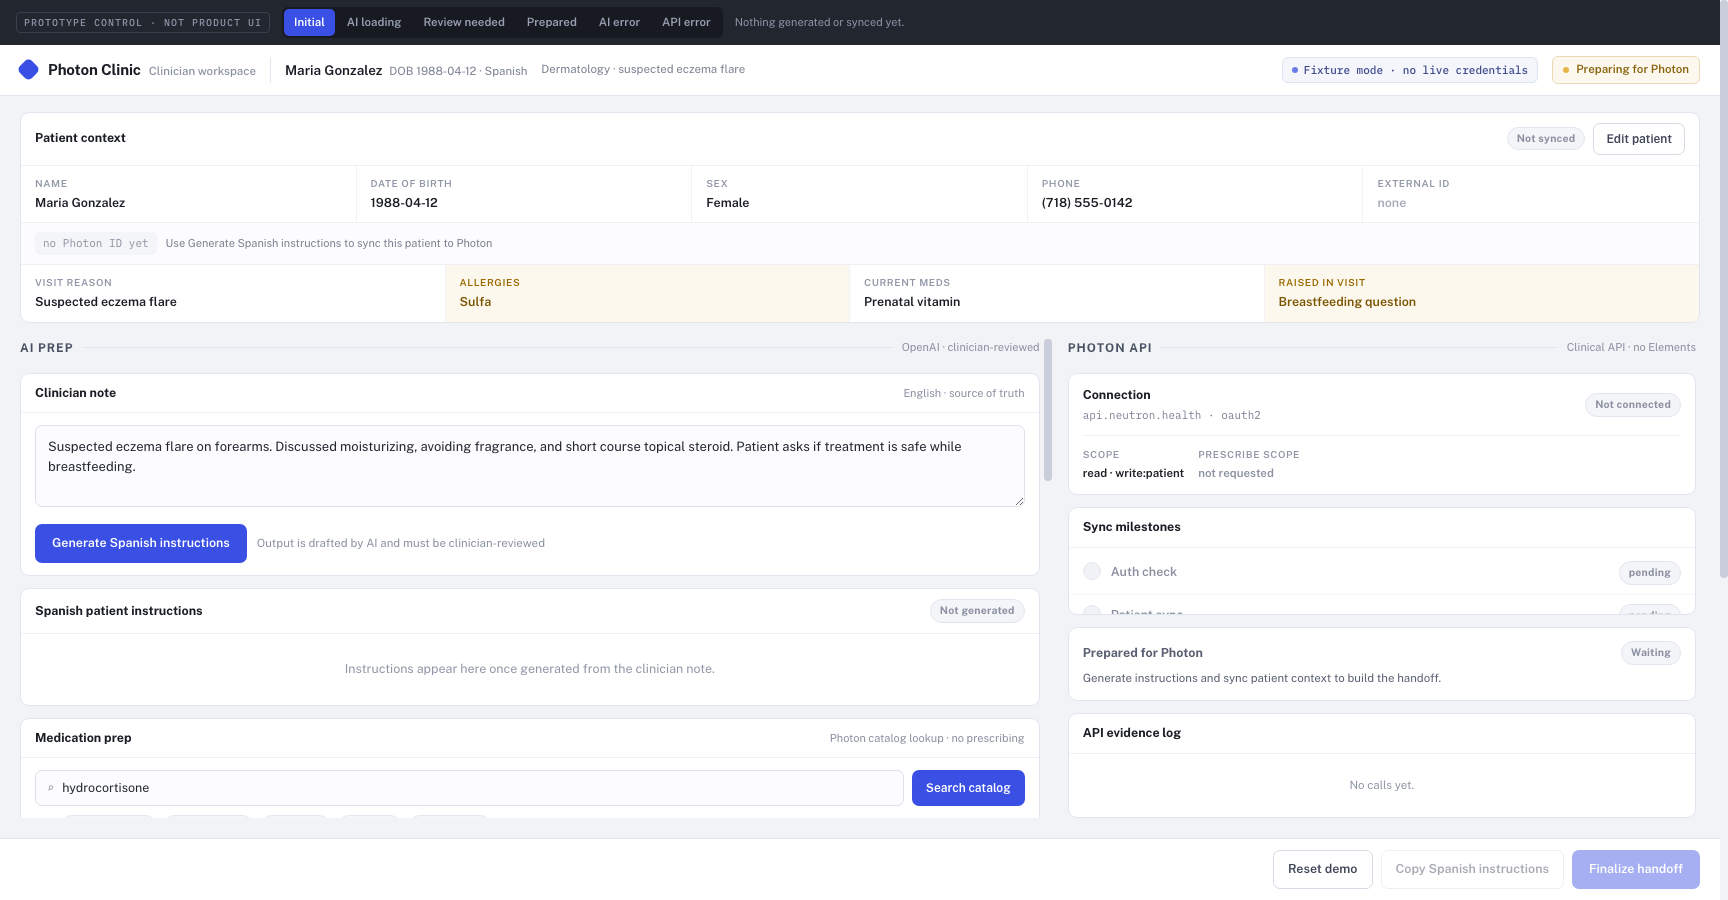
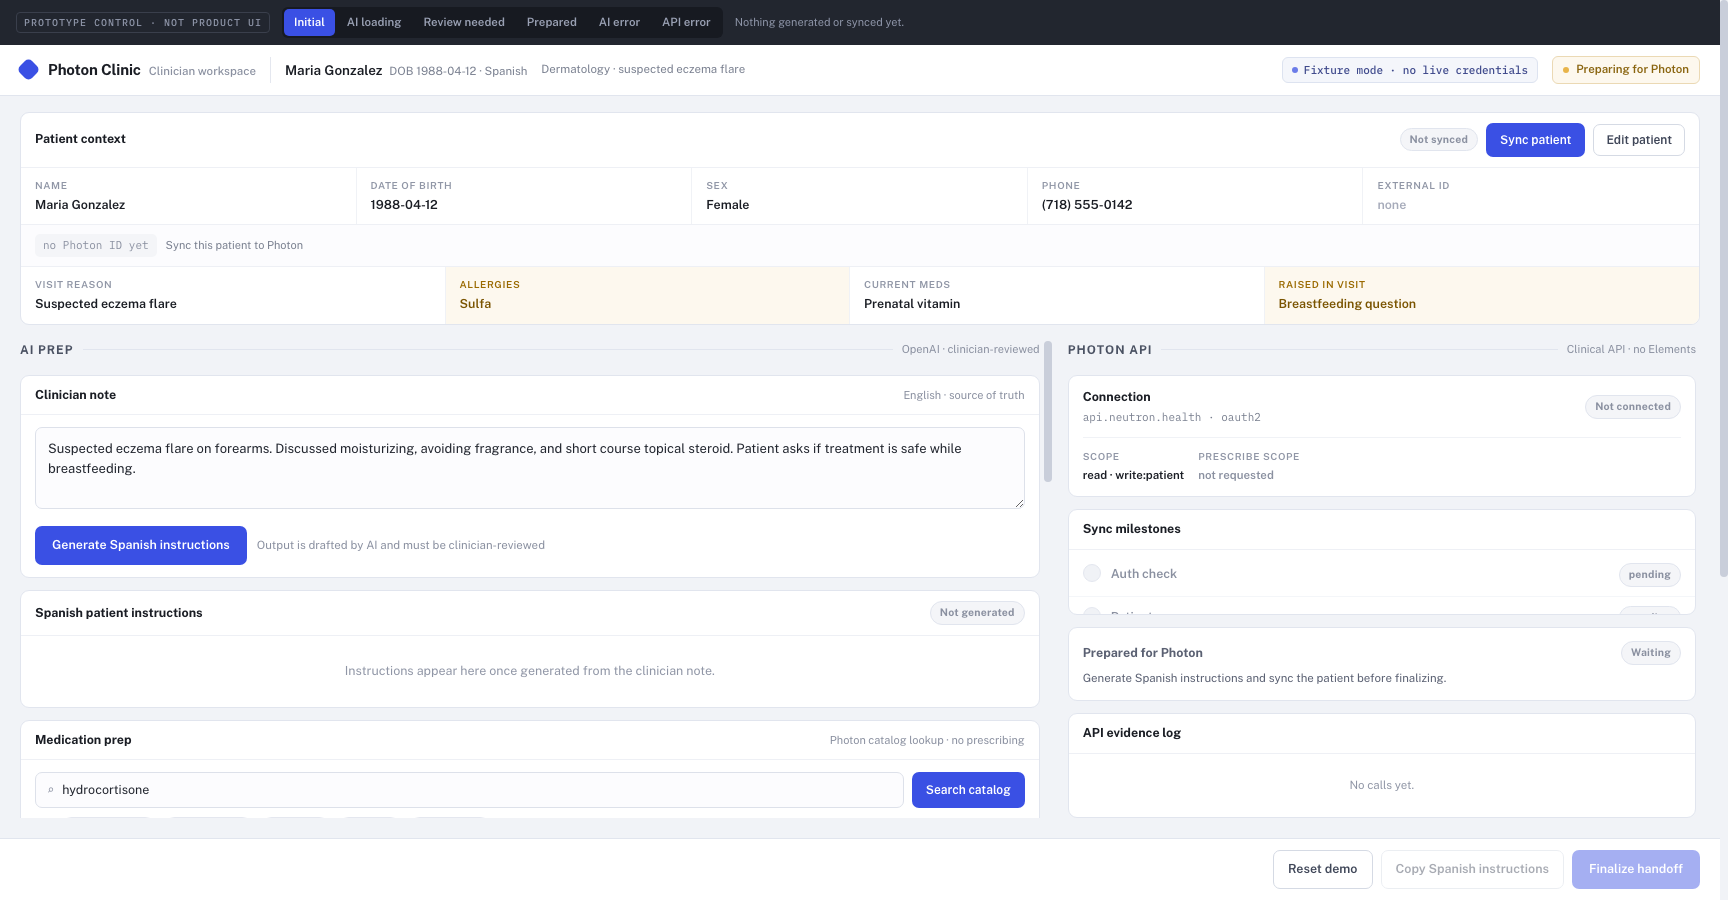
Split patient sync from instruction generation

diff --git a/app/visit/useVisitWorkflow.ts b/app/visit/useVisitWorkflow.ts
@@ -48,6 +48,7 @@ type VisitActions = {
   searchTreatmentTerm: (term: string) => void;
   selectTreatment: (id: string) => void;
   togglePatientEdit: () => void;
+  syncPatient: () => void;
   setDraftPatientField: (field: keyof VisitPatient, value: string) => void;
   savePatient: () => void;
   cancelPatientEdit: () => void;
@@ -193,13 +194,8 @@ async function getJson<TResponse>(url: string): Promise<TResponse> {
   return response.json() as Promise<TResponse>;
 }
 
-function combineMode(instructionsMode: InstructionsResponse["mode"], photonMode: PhotonSyncResponse["mode"]) {
-  return instructionsMode === "live" || photonMode === "live" ? "live" : "fixture";
-}
-
-function mergeLogEntries(instructions: InstructionsResponse, photon: PhotonSyncResponse) {
-  const [authLog, ...remainingPhotonLogs] = photon.logEntries;
-  return authLog ? [authLog, instructions.logEntry, ...remainingPhotonLogs] : [instructions.logEntry];
+function combineSingleMode(currentMode: InstructionsResponse["mode"], nextMode: InstructionsResponse["mode"]) {
+  return currentMode === "live" || nextMode === "live" ? "live" : "fixture";
 }
 
 async function requestTranslation(text: string, direction: TranslateDirection): Promise<TranslateResponse> {
@@ -254,96 +250,80 @@ export function useVisitWorkflow(): VisitWorkflow {
       phase: "loading",
       reviewed: false,
       finalized: false,
-      patientSyncStatus: "pending",
-      milestones: buildMilestones("loading"),
-      logEntries: buildLog("loading", false),
     }));
 
-    const [instructionsResult, photonResult] = await Promise.allSettled([
-      postJson<InstructionsResponse>("/api/instructions", {
+    try {
+      const instructions = await postJson<InstructionsResponse>("/api/instructions", {
         note: state.note,
         patient: toPhotonPatientInput(state.patient),
         treatment: state.selectedTreatment,
-      }),
-      postJson<PhotonSyncResponse>("/api/photon/sync", {
-        patient: toPhotonPatientInput(state.patient),
-        treatment: state.selectedTreatment,
-      }),
-    ]);
-
-    if (instructionsResult.status === "rejected") {
+      });
+      setState((current) => ({
+        ...current,
+        phase: "review",
+        reviewed: false,
+        finalized: false,
+        integrationMode: combineSingleMode(current.integrationMode, instructions.mode),
+        instructionsHeading: instructions.headingEs,
+        instructions: instructions.blocks,
+        instructionsPlainText: instructions.plainText,
+        logEntries: [...current.logEntries, instructions.logEntry],
+      }));
+    } catch {
       setState((current) => ({
         ...current,
         phase: "aiError",
         reviewed: false,
         finalized: false,
-        patientSyncStatus:
-          photonResult.status === "fulfilled" ? (current.patientDirty ? "updated" : "synced") : "none",
-        patientDirty: photonResult.status === "fulfilled" ? false : current.patientDirty,
-        patientId: photonResult.status === "fulfilled" ? photonResult.value.patientId : current.patientId,
-        patient:
-          photonResult.status === "fulfilled" && photonResult.value.patient
-            ? fromPhotonPatientInput(photonResult.value.patient)
-            : current.patient,
-        draftPatient:
-          photonResult.status === "fulfilled" && photonResult.value.patient
-            ? fromPhotonPatientInput(photonResult.value.patient)
-            : current.draftPatient,
-        milestones: photonResult.status === "fulfilled" ? photonResult.value.milestones : buildMilestones("aiError"),
-        logEntries:
-          photonResult.status === "fulfilled"
-            ? [
-                ...photonResult.value.logEntries,
-                {
-                  t: new Date().toTimeString().slice(0, 8),
-                  code: "502",
-                  msg: "openai · instructions.generate",
-                  isError: true,
-                },
-              ]
-            : buildLog("aiError", false),
+        logEntries: [
+          ...current.logEntries,
+          {
+            t: new Date().toTimeString().slice(0, 8),
+            code: "502",
+            msg: "openai · instructions.generate",
+            isError: true,
+          },
+        ],
       }));
-      return;
     }
+  };
 
-    if (photonResult.status === "rejected") {
-      const instructions = instructionsResult.value;
+  const syncPatient = async () => {
+    setState((current) => ({
+      ...current,
+      patientSyncStatus: "pending",
+      finalized: false,
+      milestones: buildMilestones("loading"),
+    }));
+
+    try {
+      const photon = await postJson<PhotonSyncResponse>("/api/photon/sync", {
+        patient: toPhotonPatientInput(state.patient),
+        treatment: state.selectedTreatment,
+      });
+      setState((current) => ({
+        ...current,
+        phase: current.phase === "apiError" ? "review" : current.phase,
+        integrationMode: combineSingleMode(current.integrationMode, photon.mode),
+        patientId: photon.patientId,
+        treatmentId: photon.treatmentId,
+        patientSyncStatus: current.patientDirty ? "updated" : "synced",
+        patientDirty: false,
+        patient: photon.patient ? fromPhotonPatientInput(photon.patient) : current.patient,
+        draftPatient: photon.patient ? fromPhotonPatientInput(photon.patient) : current.draftPatient,
+        milestones: photon.milestones,
+        logEntries: [...current.logEntries, ...photon.logEntries],
+      }));
+    } catch {
       setState((current) => ({
         ...current,
         phase: "apiError",
-        reviewed: false,
-        finalized: false,
         patientSyncStatus: "none",
-        integrationMode: instructions.mode,
-        instructionsHeading: instructions.headingEs,
-        instructions: instructions.blocks,
-        instructionsPlainText: instructions.plainText,
         milestones: buildMilestones("apiError"),
         logEntries: buildLog("apiError", false),
       }));
-      return;
+      showToast("Photon patient sync failed");
     }
-
-    const instructions = instructionsResult.value;
-    const photon = photonResult.value;
-    setState((current) => ({
-      ...current,
-      phase: "review",
-      reviewed: false,
-      finalized: false,
-      integrationMode: combineMode(instructions.mode, photon.mode),
-      instructionsHeading: instructions.headingEs,
-      instructions: instructions.blocks,
-      instructionsPlainText: instructions.plainText,
-      patientId: photon.patientId,
-      treatmentId: photon.treatmentId,
-      patientSyncStatus: current.patientDirty ? "updated" : "synced",
-      patientDirty: false,
-      patient: photon.patient ? fromPhotonPatientInput(photon.patient) : current.patient,
-      draftPatient: photon.patient ? fromPhotonPatientInput(photon.patient) : current.draftPatient,
-      milestones: photon.milestones,
-      logEntries: mergeLogEntries(instructions, photon),
-    }));
   };
 
   const runTreatmentSearch = async (rawTerm: string) => {
@@ -426,11 +406,11 @@ export function useVisitWorkflow(): VisitWorkflow {
         return;
       }
       if (derived.patientDirty) {
-        showToast("Use Generate Spanish instructions to sync patient edits to Photon first");
+        showToast("Use Sync patient before finalizing");
         return;
       }
       if (!derived.patientSynced) {
-        showToast("Use Generate Spanish instructions to sync the patient to Photon first");
+        showToast("Sync the patient to Photon first");
         return;
       }
       if (!state.reviewed) {
@@ -489,6 +469,7 @@ export function useVisitWorkflow(): VisitWorkflow {
         patientEditing: !current.patientEditing,
       }));
     },
+    syncPatient: () => void syncPatient(),
     setDraftPatientField: (field, value) => {
       setState((current) => ({
         ...current,
@@ -507,7 +488,7 @@ export function useVisitWorkflow(): VisitWorkflow {
           { t: new Date().toTimeString().slice(0, 8), code: "200", msg: "Patient saved locally" },
         ],
       }));
-      showToast("Patient saved · use Generate Spanish instructions to sync Photon");
+      showToast("Patient saved · use Sync patient to write it to Photon");
     },
     cancelPatientEdit: () => {
       setState((current) => ({

diff --git a/app/visit/components/PatientContextCard.tsx b/app/visit/components/PatientContextCard.tsx
@@ -17,6 +17,7 @@ type PatientContextCardProps = {
   currentMeds: string;
   raisedInVisit: string;
   onToggleEdit: () => void;
+  onSync: () => void;
   onDraftChange: (field: keyof VisitPatient, value: string) => void;
   onSave: () => void;
   onCancel: () => void;
@@ -77,12 +78,16 @@ function getSyncBadge(syncStatus: PatientSyncStatus, dirty: boolean): { tone: "n
 
 export function PatientContextCard(props: PatientContextCardProps) {
   const syncBadge = getSyncBadge(props.syncStatus, props.dirty);
+  const syncing = props.syncStatus === "pending";
 
   return (
     <Card className="overflow-hidden">
       <CardHeader title="Patient context">
         <div className="flex items-center gap-2">
           <Badge tone={syncBadge.tone}>{syncBadge.label}</Badge>
+          <Button dimmed={syncing} disabled={syncing} onClick={props.onSync} size="sm">
+            {syncing ? "Syncing..." : "Sync patient"}
+          </Button>
           <Button onClick={props.onToggleEdit} size="sm" variant="ghost">
             {props.editing ? "Close" : "Edit patient"}
           </Button>
@@ -169,7 +174,7 @@ export function PatientContextCard(props: PatientContextCardProps) {
             <Button onClick={props.onCancel} size="sm" variant="ghost">
               Cancel
             </Button>
-            <span className="text-[11px] text-muted-2">Saving stages the change · Generate writes it to Photon</span>
+            <span className="text-[11px] text-muted-2">Saving stages the change · Sync patient writes it to Photon</span>
           </div>
         </div>
       ) : (
@@ -206,7 +211,7 @@ export function PatientContextCard(props: PatientContextCardProps) {
               ? "Existing Photon patient was updated"
               : props.syncStatus === "synced"
                 ? "Patient record synced to Photon"
-                : "Use Generate Spanish instructions to sync this patient to Photon"}
+                : "Sync this patient to Photon"}
         </span>
       </div>
       <dl className="flex flex-wrap">

diff --git a/app/visit/components/PatientContextCard.test.ts b/app/visit/components/PatientContextCard.test.ts
@@ -1,0 +1,46 @@
+import React from "react";
+import { renderToStaticMarkup } from "react-dom/server";
+import { describe, expect, it, vi } from "vitest";
+import { PatientContextCard } from "./PatientContextCard";
+import type { VisitPatient } from "../types";
+
+const patient: VisitPatient = {
+  firstName: "Maria",
+  lastName: "Gonzalez",
+  dateOfBirth: "1988-04-12",
+  sex: "Female",
+  phone: "(718) 555-0142",
+  externalId: "",
+};
+
+function renderPatientCard() {
+  return renderToStaticMarkup(
+    React.createElement(PatientContextCard, {
+      allergies: "Sulfa",
+      currentMeds: "Prenatal vitamin",
+      dirty: false,
+      draftPatient: patient,
+      editing: false,
+      onCancel: vi.fn(),
+      onDraftChange: vi.fn(),
+      onSave: vi.fn(),
+      onSync: vi.fn(),
+      onToggleEdit: vi.fn(),
+      patient,
+      photonPatientId: "",
+      raisedInVisit: "Breastfeeding question",
+      syncStatus: "none",
+      visitReason: "Suspected eczema flare",
+    }),
+  );
+}
+
+describe("PatientContextCard", () => {
+  it("renders Photon patient sync as its own action separate from instruction generation", () => {
+    const markup = renderPatientCard();
+
+    expect(markup).toContain("Sync patient");
+    expect(markup).toContain("Sync this patient to Photon");
+    expect(markup).not.toContain("Generate Spanish instructions to sync");
+  });
+});

diff --git a/app/visit/VisitWorkspace.tsx b/app/visit/VisitWorkspace.tsx
@@ -114,6 +114,7 @@ export function VisitWorkspace() {
             onCancel={workflow.actions.cancelPatientEdit}
             onDraftChange={workflow.actions.setDraftPatientField}
             onSave={workflow.actions.savePatient}
+            onSync={workflow.actions.syncPatient}
             onToggleEdit={workflow.actions.togglePatientEdit}
             patient={workflow.state.patient}
             photonPatientId={workflow.state.patientId}

diff --git a/app/visit/components/HandoffCard.tsx b/app/visit/components/HandoffCard.tsx
@@ -21,7 +21,7 @@ const stateByStatus: Record<HandoffStatus, HandoffState> = {
   waiting: {
     badgeLabel: "Waiting",
     badgeTone: "neutral",
-    body: "Generate instructions and sync patient context to build the handoff.",
+    body: "Generate Spanish instructions and sync the patient before finalizing.",
     cardTone: "plain",
     titleColor: "text-ink-6",
   },

diff --git a/vitest.config.ts b/vitest.config.ts
@@ -1,6 +1,8 @@
+import react from "@vitejs/plugin-react";
 import { defineConfig } from "vitest/config";
 
 export default defineConfig({
+  plugins: [react()],
   test: {
     environment: "node",
     include: ["app/**/*.test.ts"],
